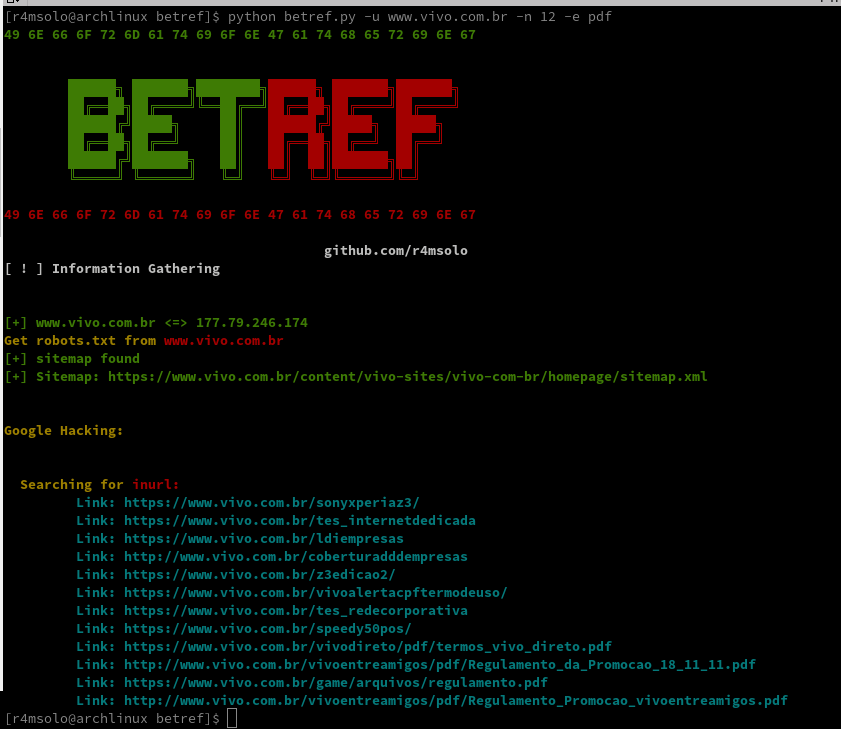
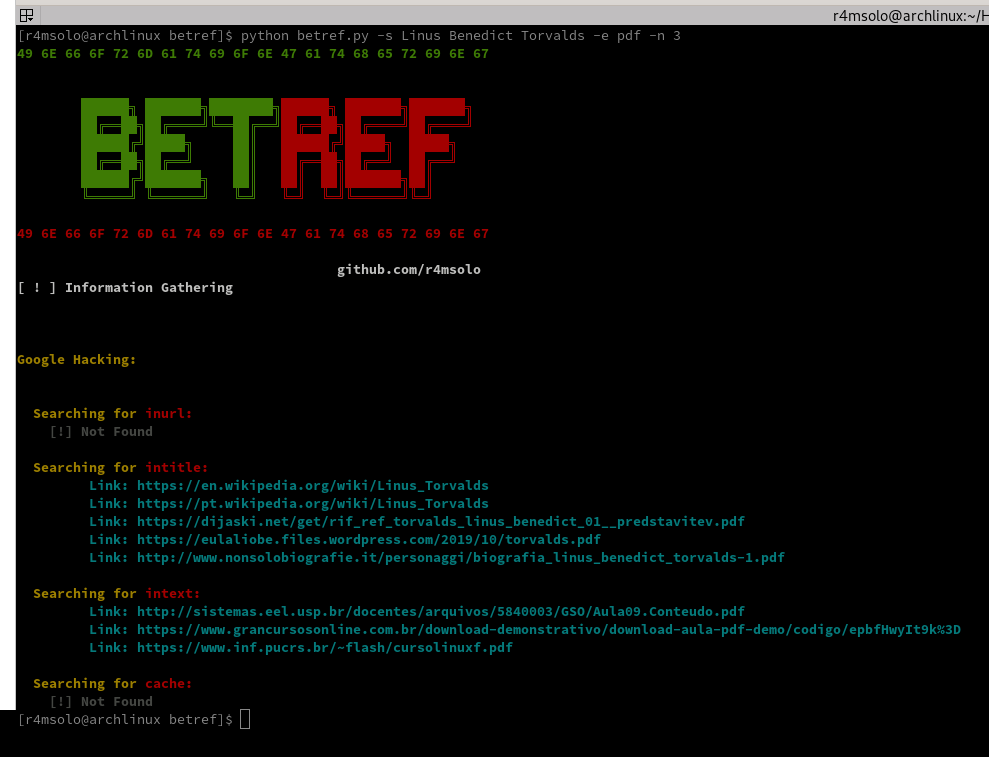
08-20-20

Changed region(s): [[0.0, 0.0, 1.0, 1.0]]

diff --git a/betref.py b/betref.py
@@ -11,6 +11,7 @@ import urllib.parse
 import argparse
 import os.path
 import socket
+import time
 import re
 
 banner = '''\033[1;32m49 6E 66 6F 72 6D 61 74 69 6F 6E 47 61 74 68 65 72 69 6E 67 
@@ -28,25 +29,16 @@ banner = '''\033[1;32m49 6E 66 6F 72 6D 61 74 69 6F 6E 47 61 74 68 65 72 69 6E 6
 '''
 
 class BetRef():
-	
-	def randomAgent(self):
 
-		#add more user-agent here
-		useragent = [
-		'Mozilla/5.0 (X11; Linux x86_64) AppleWebKit/537.36 (KHTML, like Gecko) Brave Chrome/83.0.4103.116 Safari/537.36',
-		'Mozilla/5.0 (X11; Linux i686; rv:64.0) Gecko/20100101 Firefox/64.0',
-		'Chrome (AppleWebKit/537.1; Chrome50.0; Windows NT 6.3) AppleWebKit/537.36 (KHTML like Gecko) Chrome/51.0.2704.79 Safari/537.36 Edge/14.14393',
-		'Mozilla/5.0 (Windows NT 10.0; Win64; x64) AppleWebKit/537.36 (KHTML like Gecko) Chrome/51.0.2704.79 Safari/537.36 Edge/14.14931',
-		'Mozilla/5.0 (Windows NT 5.1; rv:31.0) Gecko/20100101 Firefox/31.0',
-		'Mozilla/5.0 (X11; Ubuntu; Linux x86_64; rv:21.0) Gecko/20100101 Firefox/21.0',
-		'Mozilla/5.0 (Macintosh; Intel Mac OS X 10.8; rv:21.0) Gecko/20100101 Firefox/21.0',
-		'Mozilla/5.0 (X11; U; OpenBSD sparc64; en-CA; rv:1.8.0.2) Gecko/20060429 Firefox/1.5.0.2',
-		]
-		
-		random = randint(0,len(useragent)-1)
-		user = useragent[random]
-		return user
-	
+	def requests(self,request):
+		self.printDebug("function requests()")
+		self.printDebug('REQUEST: '+request)
+
+		user = 'betref'
+
+		req = urlopen(Request('https://'+request,headers={'User-Agent': user}))
+		return req
+
 	def __init__(self):
 		try:
 			print(banner)
@@ -63,27 +55,34 @@ class BetRef():
 					address = address[:-1]
 
 			searchD = [address,search,extf,dork]
-
+			
 			count = 0
 			for l in searchD:
 				if not l:
 					l = None
 					count+=1
 
-			if count == 4:
+			if count == len(searchD):
 				print('\n[!] No parameters found! Are you kidding me? usage: ./betref -h\n') 
-			elif searchD[3]:
-				self.filterResult('www.google.com/search?num={}&q={}'.format(args.num,dork),'Google',str(dork))
+			
+			elif dork:
+				dork = ' '.join(dork)
+				self.filterResult('www.google.com/search?num={}&q={}'.format(args.num,dork.replace(' ','+')),'Google',str(dork))
 			else:
 				if address:
 					self.getDNS(address)
 					self.getRobots(address)
+				if search:
+					search = ' '.join(search)
 				else:
-					print('\033[1;90m[!] No URL found, skipping...\n\033[0;0m')
+					print('\n\033[1;90m[!] No URL found, skipping...\033[0;0m')
 				self.searchDorks(search,address,extf)
 
+		except socket.gaierror:
+			print("[!] No Connection")
+			quit()
 		except KeyboardInterrupt:
-			self.printOutput("leaving...\n",3)
+			self.printOutput("leaving applications...\n",3)
 
 	def printOutput(self,output,sig):
 		self.printDebug("function printOutput()")
@@ -94,10 +93,11 @@ class BetRef():
 				print("[+] Creating a new report file => "+filename)
 				report = open(filename,'+a')
 				report.write(output+'\n')
-
-			report = open(filename,'+a')
-			report.write(output+'\n')
-			report.close()
+				report.close()
+			else:
+				report = open(filename,'+a')
+				report.write(output+'\n')
+				report.close()
 		
 		if sig == 0:
 			self.printDebug('sig 0: void')
@@ -114,24 +114,6 @@ class BetRef():
 	def printDebug(self,debug):
 		if args.debug:
 			print("DEBUG:",debug)
-
-	def requests(self,request):
-		self.printDebug("function requests()")
-		
-		if args.useragent:
-			user = self.randomAgent()
-			self.printDebug("[!] Using random User-Agent: {0}".format(user))
-		else:
-			user = 'betref'
-
-		try:
-			req = urlopen(Request('https://'+request,headers={'User-Agent': user}))
-			return req
-		
-		except:
-			print('[!] Error with SSL certificate\n[!] Trying without ssl...')
-			req = urlopen(Request('http://'+request,headers={'User-Agent': user}))
-			return req
 
 	def getDNS(self,address):
 		self.printDebug("function getDNS()")
@@ -157,25 +139,23 @@ class BetRef():
 		self.printDebug('[ROBOTS.TXT] '+address)
 		
 		address = address+'/robots.txt'
-		robot = self.requests(address)
-		self.printOutput('======= ROBOTS =======\n'+address+'\n-\n',0)
-		
 		try:
+			robot = self.requests(address)
+			self.printOutput('======= ROBOTS =======\n'+address+'\n-\n',0)
 			for l in robot.readlines():
 				if 'sitemap.xml' in l.decode('utf-8'):
 					self.printOutput("sitemap found",1)
 					print('\033[1;32m[+]',l.decode('utf-8'),'\033[0;0m')
 				self.printOutput(l.decode('utf-8'),0)
+			self.printOutput('='*42+'\n',0)
 		except:
-			self.printOutput('[!] robots.txt not found',3)
-		
-		self.printOutput('='*42+'\n',0)
+			self.printOutput('\n[!] robots.txt not found',3)
 			
 	def searchDorks(self,search,site,extf):
 		self.printDebug("function searchDorks()")
+
 		#add more engine here in the dict
 		search_engine = {'Google':'www.google.com/search?num={}&q='.format(args.num)}
-		
 		gdorklist = ['inurl:','intitle:','intext:','cache:']
 		
 		if site:
@@ -197,62 +177,57 @@ class BetRef():
 			searchD = list()
 			for l in listD:
 				if l != None:
+					if l == listD[0]:
+						l = '"'+str(l).replace(' ','+')+'"'
 					searchD.append(l)
 
-			if len(listD) > 1:
-				searchD = '+'.join(searchD)	
+			if len(searchD) > 1:
+				searchD = '+'.join(searchD)
+				searchD = searchD.replace(' ','')
 
-			self.printDebug("searchD: "+searchD)
+			self.printDebug("searchD: "+str(searchD))
 
 			for d in dorklist:
-
-				if not search:
-					if not extf:
-						dork = "{}{}".format(engine,site)
-					else:
-						dork = "{}{}{}".format(engine,site,extf)
+				if search:
+					dork = "{}{}{}".format(engine,d,searchD)
+					self.filterResult(dork,se,d)
+				else:
+					dork = engine+searchD
 					self.filterResult(dork,se,d)
 					break
 
-				elif d in searchD:
-					dork = "{}{}".format(engine,searchD)
-				
-				else:	
-					dork = "{}{}{}".format(engine,d,searchD)
-				
-				self.filterResult(dork,se,d)
-
-				
 	def filterResult(self,dork,se,d):
 		print("\n\033[1;33m  Searching for\033[1;31m "+d+"\033[0;0m")
-		req = self.requests(dork.replace(' ','+'))
+		req = self.requests(dork)
 		count = 0
 		if se == 'Google':
-			msg = str(req.read()).split(" ")
-			for l in msg:
-				if 'href="/url?q=' in l:
-					link = l.replace('href="/url?q=','Link: ')
-					link = link.split('&')[0]
-					if re.search("http",link) and not re.search('ServiceLogin',link) and not re.search('preferences',link):
-						link = urllib.parse.unquote(link)
-						self.printOutput(link,2)
-						count+=1
+			try:
+				msg = str(req.read()).split(" ")
+				for l in msg:
+					if 'href="/url?q=' in l:
+						link = l.replace('href="/url?q=','Link: ')
+						link = link.split('&')[0]
+						if re.search("http",link) and not re.search('ServiceLogin',link) and not re.search('google',link):
+							link = urllib.parse.unquote(link)
+							self.printOutput(link,2)
+							count+=1
 
-			if count == 0:
-				print('    \033[1;90m[!] Not Found\033[0;0m')
+				if count == 0:
+					print('    \033[1;90m[!] Not Found\033[0;0m')
+			except:
+				print('[!] No response')
 
 	def parameters(self):
 		global args
 		parser = argparse.ArgumentParser()
-		parser.add_argument("-u", dest="address",action="store", help="address of target")
-		parser.add_argument("-s", dest="search",action="store", help="search keywords")
-		parser.add_argument("-d", dest="dork",action="store", help="search dorks")
+		parser.add_argument("-u", dest="address",action="store", help="domain address")
+		parser.add_argument("-s", dest="search",nargs="+",action="store", help="search for keyword")
+		parser.add_argument("-d", dest="dork",action="store",nargs="+", help="search for dorks")
 		parser.add_argument("-e", dest="extf",action="store", help="search for files containing specified extension")
 		parser.add_argument("-n", dest="num", action="store", help="number of searches")
 		parser.add_argument("-o", dest="filename",action="store", help="writes the output to a report file")
-		parser.add_argument("--random-agent", dest="useragent", action="store_true",help="random user-agent")
 		parser.add_argument("--debug", dest="debug", action="store_true")
-		parser.set_defaults(useragent=False,debug=False,num=9)
+		parser.set_defaults(proxy=None,debug=False,num=9)
 		args = parser.parse_args()
 
 if '__main__' == __name__:

diff --git a/README.md b/README.md
@@ -7,9 +7,17 @@
 ```
   $ ./betref.py
 ```
+
+-s automated and exact search by name or phrase passed as an argument
+-u search within a given address
+-e Search for extensions ex: -e pdf
+-n Number of searchs ex: -n 5
+-d Manual search
+-o save search to file ex: -o dork.txt
+
  ![](img/1.png)
  
- ![](img/2.png)
+ ![](img/2.png)	![](img/3.png)
 
 
 ## License
